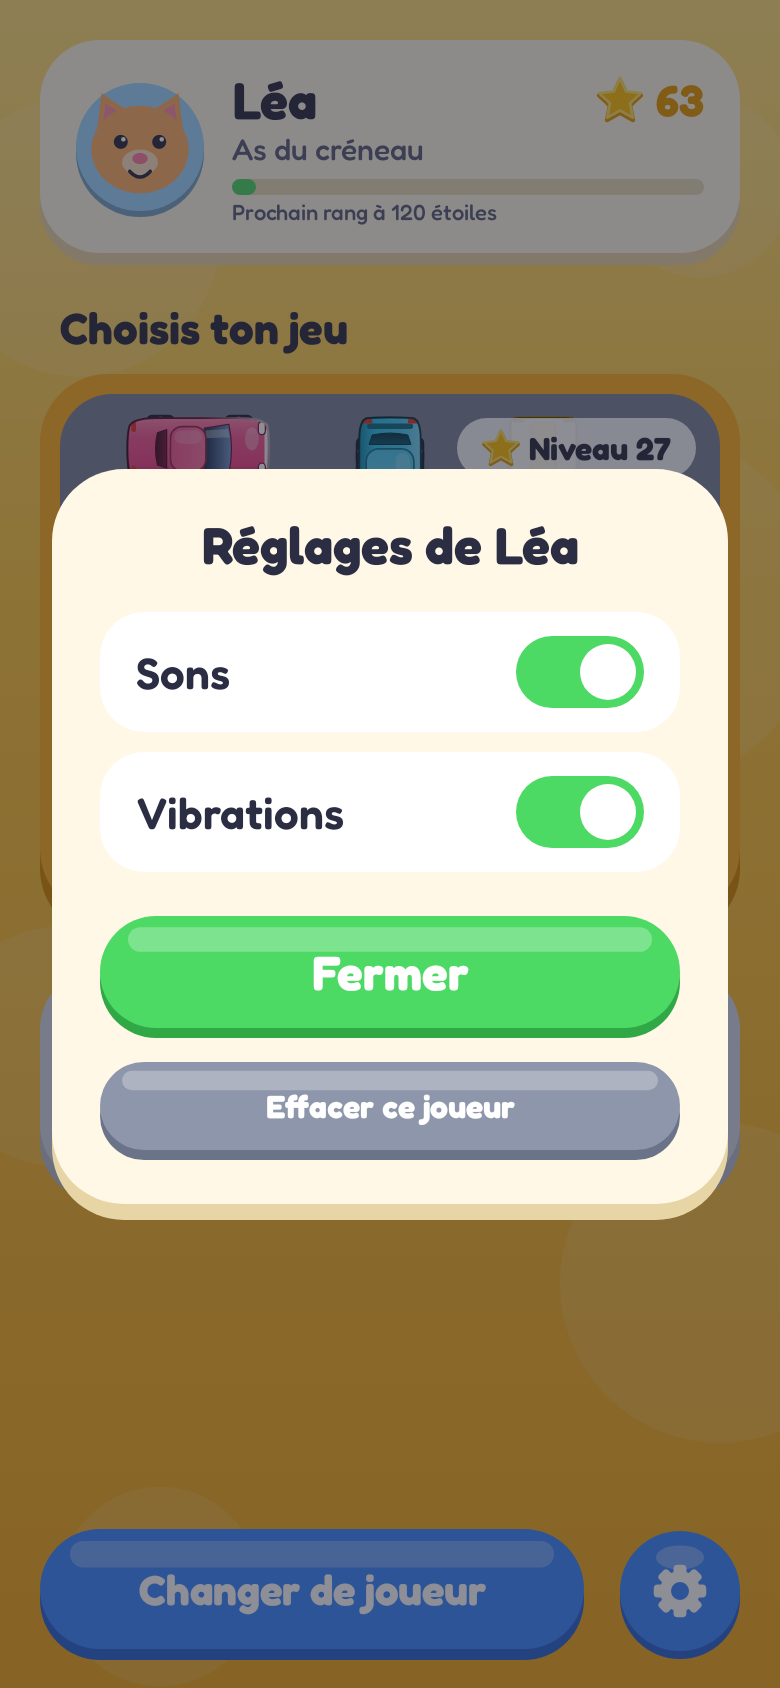
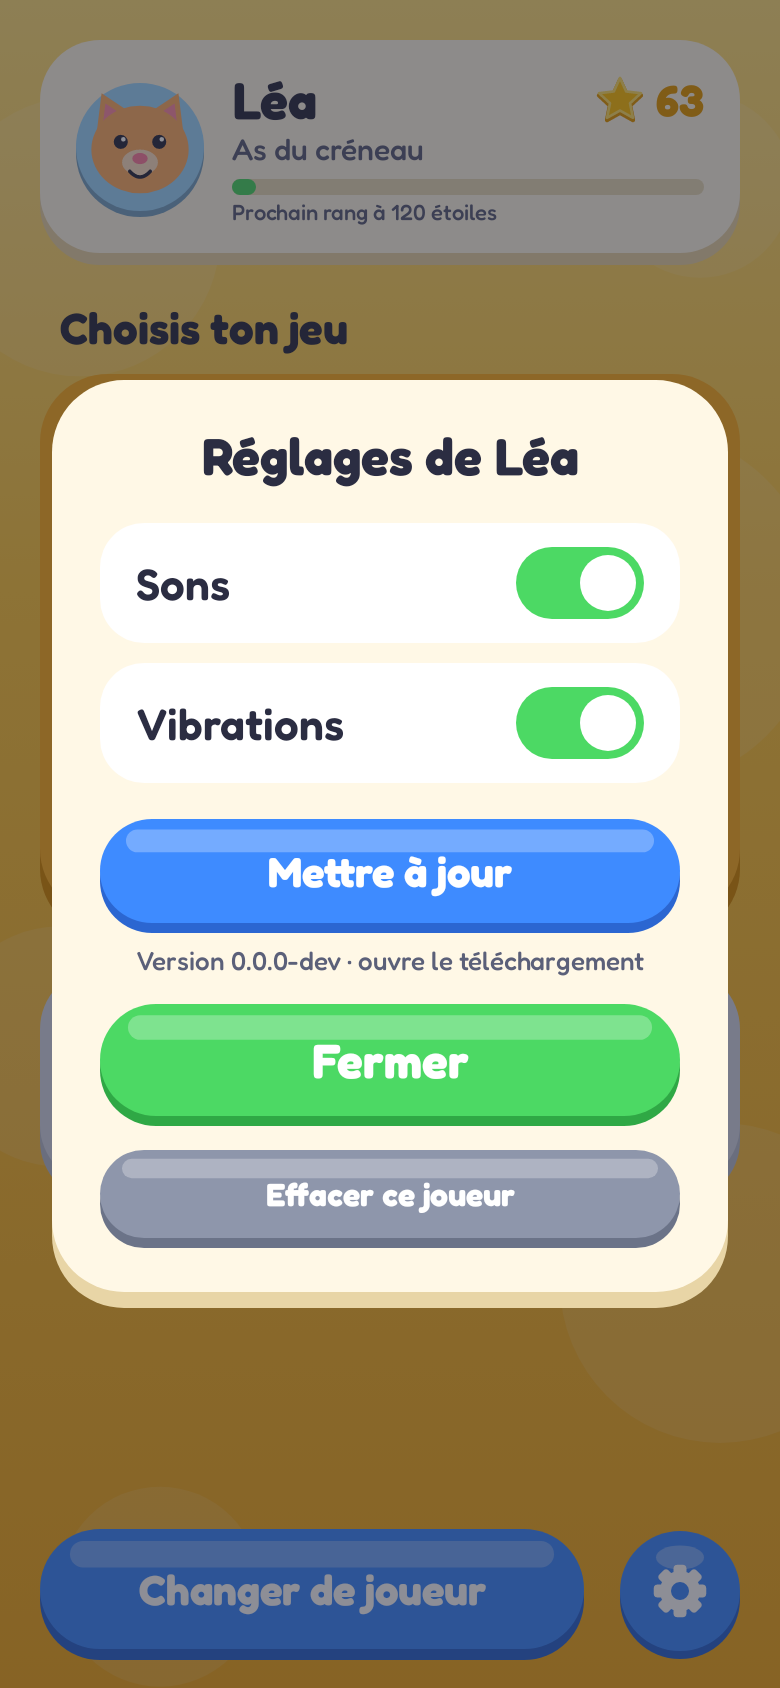
feat: bouton « Mettre à jour » et numéro de version dans les réglages
Le bouton ouvre le téléchargement de la dernière version dans le navigateur : l'appli elle-même n'a toujours aucune permission réseau.
Testé sans téléphone (Robolectric) : le bon lien est ouvert.

diff --git a/android/app/src/main/java/com/kcharignon/petitsjeux/core/screens/HubScreen.kt b/android/app/src/main/java/com/kcharignon/petitsjeux/core/screens/HubScreen.kt
@@ -31,10 +31,12 @@ import androidx.compose.ui.geometry.CornerRadius
 import androidx.compose.ui.geometry.Offset
 import androidx.compose.ui.geometry.Size
 import androidx.compose.ui.graphics.Color
+import androidx.compose.ui.platform.LocalContext
 import androidx.compose.ui.text.font.FontWeight
 import androidx.compose.ui.text.style.TextAlign
 import androidx.compose.ui.unit.dp
 import androidx.compose.ui.unit.sp
+import com.kcharignon.petitsjeux.core.AppUpdate
 import com.kcharignon.petitsjeux.core.Games
 import com.kcharignon.petitsjeux.core.MiniGame
 import com.kcharignon.petitsjeux.core.save.Profile
@@ -178,6 +180,8 @@ fun SettingsCard(
     initialConfirm: Boolean = false,
 ) {
     var confirm by rememberSaveable { mutableStateOf(initialConfirm) }
+    val context = LocalContext.current
+    var noBrowser by remember { mutableStateOf(false) }
     Modal(onDismiss = onClose) {
         Panel(
             Modifier.padding(horizontal = 26.dp).fillMaxWidth().consumeTaps(),
@@ -189,7 +193,17 @@ fun SettingsCard(
                 SettingRow("Sons", profile.settings.sound, Modifier.padding(top = 18.dp)) { onSettingsChange(profile.settings.copy(sound = it)) }
                 SettingRow("Vibrations", profile.settings.vibration, Modifier.padding(top = 10.dp)) { onSettingsChange(profile.settings.copy(vibration = it)) }
                 if (!confirm) {
-                    ChunkyButton("Fermer", onClose, Modifier.padding(top = 22.dp).fillMaxWidth(), height = 56.dp, fontSize = 24.sp)
+                    // l'appli ne se connecte pas : ce bouton ouvre le téléchargement de la dernière version dans le navigateur
+                    ChunkyButton(
+                        "Mettre à jour", { noBrowser = !AppUpdate.open(context) }, Modifier.padding(top = 18.dp).fillMaxWidth(),
+                        color = Pj.Blue, dark = Pj.BlueDark, height = 52.dp, fontSize = 21.sp,
+                    )
+                    PjText(
+                        if (noBrowser) "Aucun navigateur sur ce téléphone." else "Version ${AppUpdate.installedVersion(context)} · ouvre le téléchargement",
+                        Modifier.padding(top = 6.dp).fillMaxWidth(), size = 13.sp, weight = FontWeight.Medium,
+                        color = if (noBrowser) Pj.RedDark else Pj.InkSoft, align = TextAlign.Center,
+                    )
+                    ChunkyButton("Fermer", onClose, Modifier.padding(top = 14.dp).fillMaxWidth(), height = 56.dp, fontSize = 24.sp)
                     ChunkyButton(
                         "Effacer ce joueur", { confirm = true }, Modifier.padding(top = 12.dp).fillMaxWidth(),
                         color = Pj.Slate, dark = Pj.SlateDark, height = 44.dp, fontSize = 16.sp,

diff --git a/android/app/src/test/java/com/kcharignon/petitsjeux/screenshots/ScreenshotsTest.kt b/android/app/src/test/java/com/kcharignon/petitsjeux/screenshots/ScreenshotsTest.kt
@@ -1,5 +1,6 @@
 package com.kcharignon.petitsjeux.screenshots
 
+import android.content.Intent
 import androidx.activity.ComponentActivity
 import androidx.compose.runtime.Composable
 import androidx.compose.ui.geometry.Offset
@@ -10,6 +11,7 @@ import androidx.compose.ui.test.onNodeWithTag
 import androidx.compose.ui.test.onNodeWithText
 import androidx.compose.ui.test.onRoot
 import androidx.compose.ui.test.performTouchInput
+import com.kcharignon.petitsjeux.core.AppUpdate
 import com.kcharignon.petitsjeux.core.PetitsJeuxApp
 import com.kcharignon.petitsjeux.core.Screen
 import com.kcharignon.petitsjeux.core.save.Avatar
@@ -35,6 +37,7 @@ import org.junit.Test
 import org.junit.runner.RunWith
 import org.robolectric.RobolectricTestRunner
 import org.robolectric.annotation.Config
+import org.robolectric.Shadows.shadowOf
 import org.robolectric.annotation.GraphicsMode
 
 /**
@@ -83,6 +86,18 @@ class ScreenshotsTest {
     @Test
     fun settings() = show("04-reglages") {
         HubScreen(three[0], onPlay = {}, onSwitchPlayer = {}, onSettingsChange = {}, onDelete = {}, initialSettingsOpen = true)
+    }
+
+    @Test
+    fun theUpdateButtonOpensTheDownloadInTheBrowser() {
+        show(null) { HubScreen(three[0], onPlay = {}, onSwitchPlayer = {}, onSettingsChange = {}, onDelete = {}, initialSettingsOpen = true) }
+        rule.onNodeWithText("Mettre à jour").performClick()
+        rule.mainClock.advanceTimeBy(100)
+        val opened = shadowOf(rule.activity).nextStartedActivity
+        assertEquals(Intent.ACTION_VIEW, opened.action)
+        assertEquals(AppUpdate.DOWNLOAD_URL, opened.dataString)
+        // c'est bien l'adresse fixe de la dernière version
+        assertTrue(AppUpdate.DOWNLOAD_URL.endsWith("/releases/download/android-latest/petitsjeux.apk"))
     }
 
     @Test

diff --git a/android/app/src/main/java/com/kcharignon/petitsjeux/core/AppUpdate.kt b/android/app/src/main/java/com/kcharignon/petitsjeux/core/AppUpdate.kt
@@ -1,0 +1,30 @@
+package com.kcharignon.petitsjeux.core
+
+import android.content.ActivityNotFoundException
+import android.content.Context
+import android.content.Intent
+import android.net.Uri
+
+/**
+ * Mettre l'appli à jour : l'appli ne se connecte JAMAIS elle-même (aucune permission réseau). Le bouton des réglages ouvre simplement
+ * le téléchargement de la dernière version dans le navigateur du téléphone ; on ouvre ensuite le fichier pour l'installer par-dessus
+ * (les joueurs et leurs étoiles sont conservés : même clé de signature, même identifiant).
+ */
+object AppUpdate {
+    /** Adresse fixe de la dernière version (release « android-latest », voir android/PUBLICATION.md). */
+    const val DOWNLOAD_URL = "https://github.com/kcharignon/mobile-game/releases/download/android-latest/petitsjeux.apk"
+
+    fun intent(): Intent = Intent(Intent.ACTION_VIEW, Uri.parse(DOWNLOAD_URL)).addFlags(Intent.FLAG_ACTIVITY_NEW_TASK)
+
+    /** Ouvre le téléchargement dans le navigateur ; `false` s'il n'y a aucun navigateur sur le téléphone. */
+    fun open(context: Context): Boolean = try {
+        context.startActivity(intent())
+        true
+    } catch (e: ActivityNotFoundException) {
+        false
+    }
+
+    /** Numéro de la version installée (« 0.2.0 »), ou « ? » s'il est introuvable. */
+    fun installedVersion(context: Context): String =
+        runCatching { context.packageManager.getPackageInfo(context.packageName, 0).versionName }.getOrNull() ?: "?"
+}

diff --git a/docs/DESIGN.md b/docs/DESIGN.md
@@ -20,7 +20,8 @@ le Kotlin reprend les mêmes proportions.
 ## Principes
 
 - **Pensé pour un enfant** : gros boutons, peu de texte, jamais de « perdu » : une faute coûte une étoile, pas la partie. Un bouton **Indice** gratuit.
-- **Zéro pub, zéro suivi, zéro permission réseau.** Seule permission : vibration (retour tactile, désactivable).
+- **Zéro pub, zéro suivi, zéro permission réseau.** Seule permission : vibration (retour tactile, désactivable). Pour se mettre à jour, le bouton des réglages
+  ouvre le téléchargement dans le navigateur : l'appli elle-même ne se connecte jamais.
 - **Portrait uniquement**, Android 8+ (API 26), une main.
 - **Rapide** : tout est dessiné par le code (Canvas), pas d'image, pas de son à charger. Les sons sont synthétisés.
 - **Extensible** : un jeu = un module qui reçoit le joueur courant et sait lire/écrire **sa part** de la sauvegarde.
@@ -31,7 +32,7 @@ le Kotlin reprend les mêmes proportions.
 Lancement ─► Choix du joueur ─► Accueil (jeux) ─► Choix du niveau ─► Jeu ─► Victoire ─► niveau suivant
                  │  ▲                  │
                  │  └──── « Changer de joueur »
-                 └─► Nouveau joueur (prénom + animal)      engrenage : son, vibration, effacer ce joueur
+                 └─► Nouveau joueur (prénom + animal)      engrenage : son, vibration, mettre à jour, effacer ce joueur
 ```
 
 - Au lancement on arrive **toujours** sur le choix du joueur (appareil partagé entre frères et sœurs).

diff --git a/android/PUBLICATION.md b/android/PUBLICATION.md
@@ -85,7 +85,7 @@ Le workflow construit, teste, signe, **contrôle** (certificat attendu, version,
 
 1. Sur le téléphone, ouvre le lien « dernière version » du README (<https://github.com/kcharignon/mobile-game/releases/download/android-latest/petitsjeux.apk>) ou la page des [releases](https://github.com/kcharignon/mobile-game/releases) pour choisir une version (`petitsjeux-X.Y.Z.apk`).
 2. Ouvre le fichier téléchargé, autorise l'installation depuis Chrome si Android le demande, touche **Installer** (si Play Protect hésite : **Installer quand même**).
-3. **Mettre à jour** : même geste avec la version suivante, par-dessus. Les joueurs, leurs étoiles et leurs niveaux sont conservés.
+3. **Mettre à jour** : dans l'appli, réglages (engrenage) puis **Mettre à jour** ouvre le téléchargement de `android-latest` dans le navigateur ; ouvrir ensuite le fichier téléchargé et toucher **Installer**. Même geste à la main avec la version suivante. Ça s'installe par-dessus : les joueurs, leurs étoiles et leurs niveaux sont conservés.
 
 ## Versions d'essai (débogage)
 

diff --git a/README.md b/README.md
@@ -24,7 +24,7 @@ Android 8 ou plus. L'appli se distribue en **APK signé** (sans Google Play) :
 | Toutes les versions | <https://github.com/kcharignon/mobile-game/releases> |
 
 Sur le téléphone : ouvrir le fichier téléchargé, autoriser l'installation depuis le navigateur si Android le demande, **Installer**
-(si Play Protect hésite : *Installer quand même*). **Mettre à jour** : même geste avec la version suivante, par-dessus : les joueurs et leurs étoiles sont conservés.
+(si Play Protect hésite : *Installer quand même*). **Mettre à jour** : dans l'appli, **réglages (engrenage) > Mettre à jour** ouvre le téléchargement dans le navigateur (l'appli elle-même ne se connecte jamais) ; ouvrir ensuite le fichier téléchargé. Même geste à la main avec le lien ci-dessus. Ça s'installe par-dessus : les joueurs et leurs étoiles sont conservés.
 
 ## Le jeu
 
